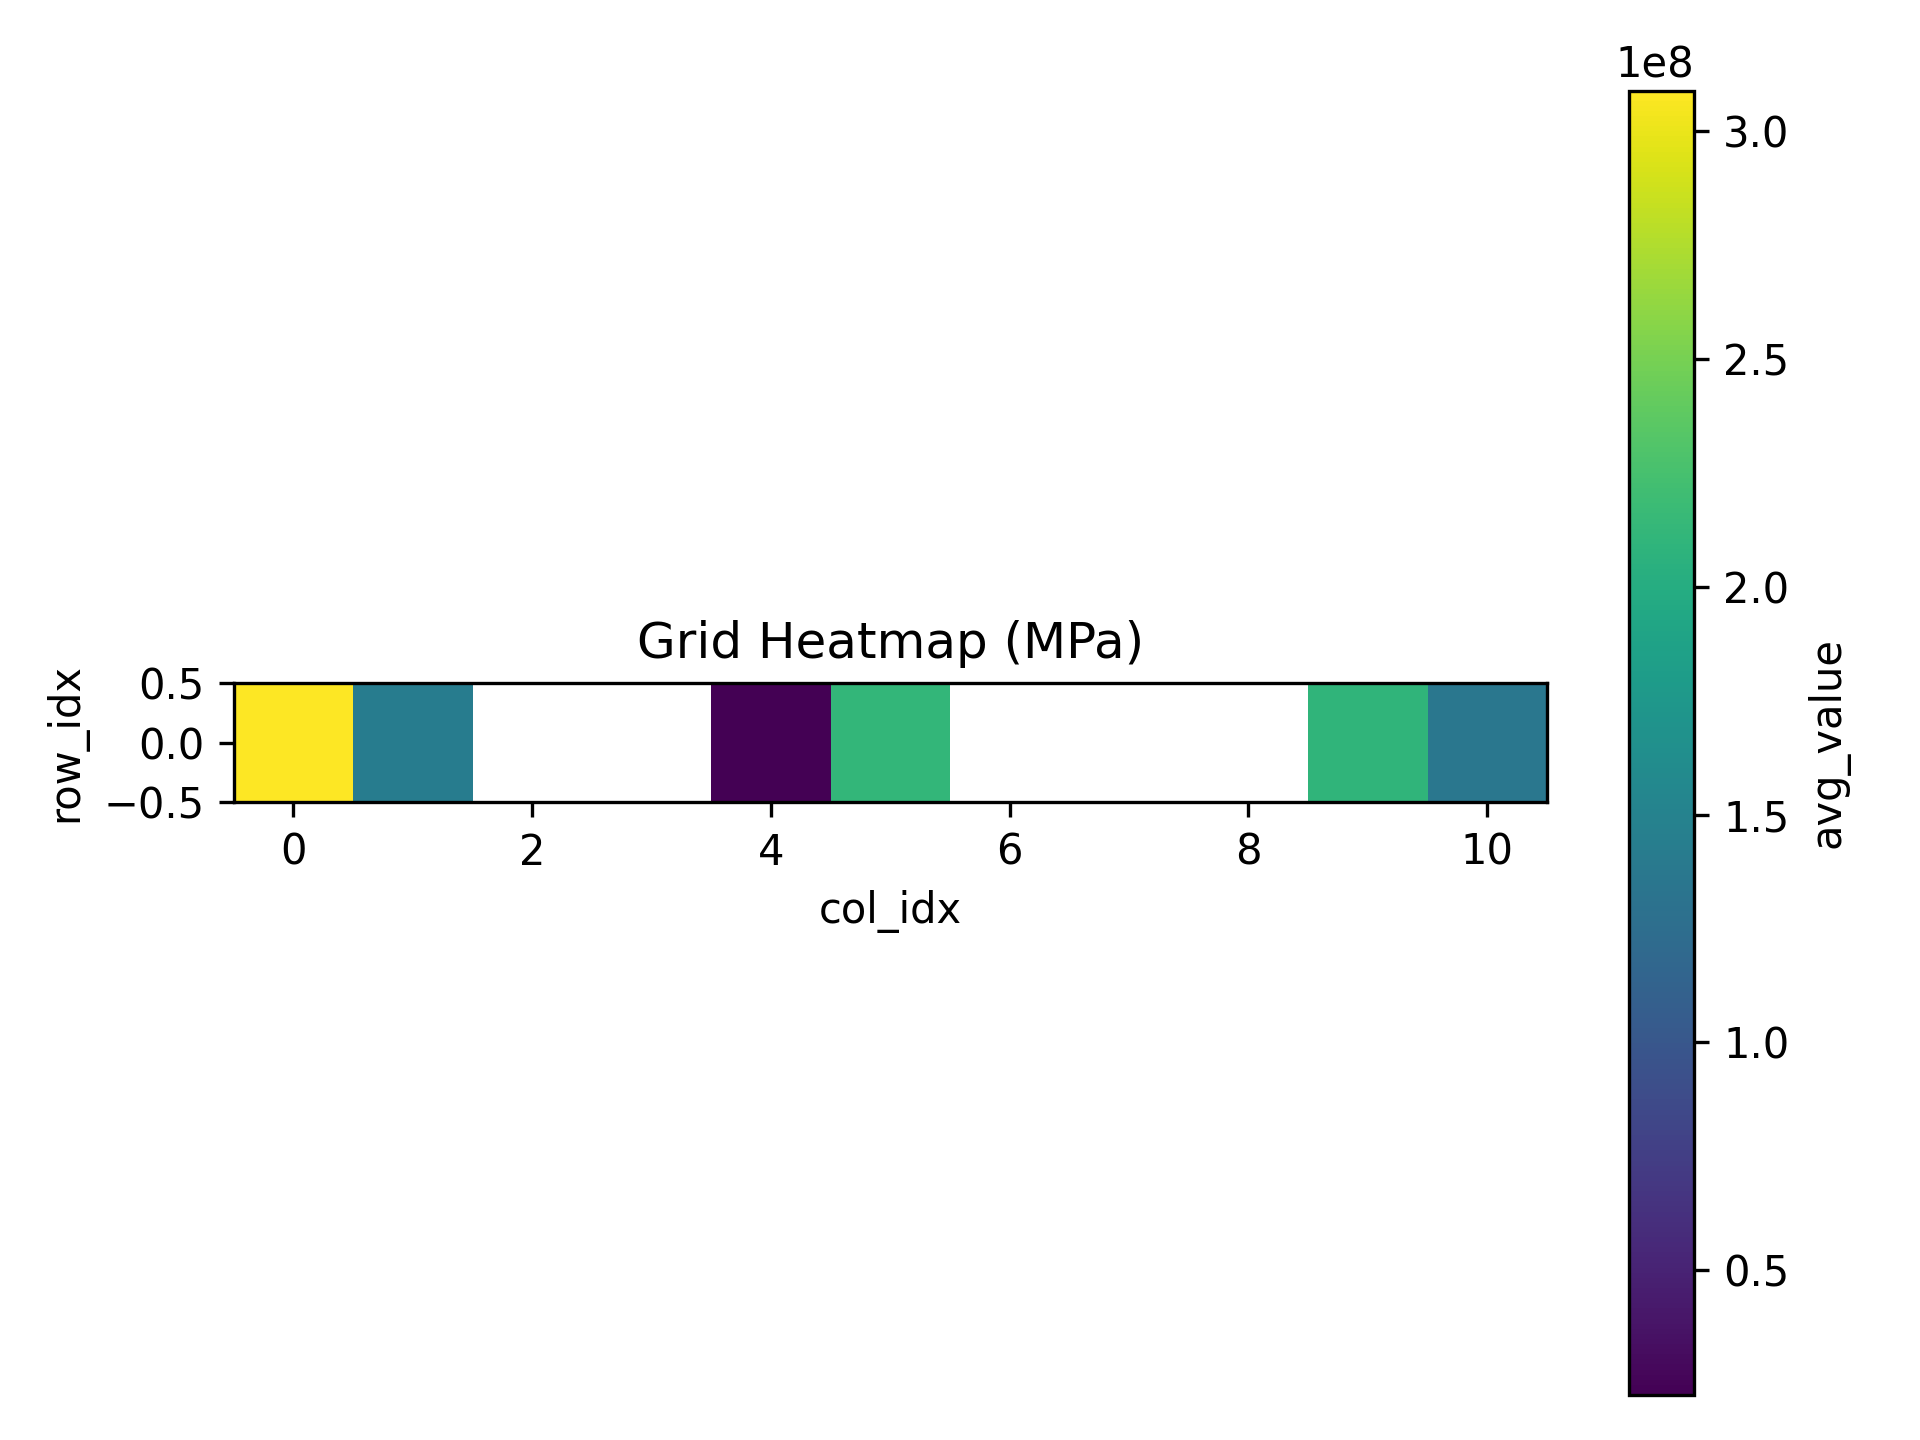
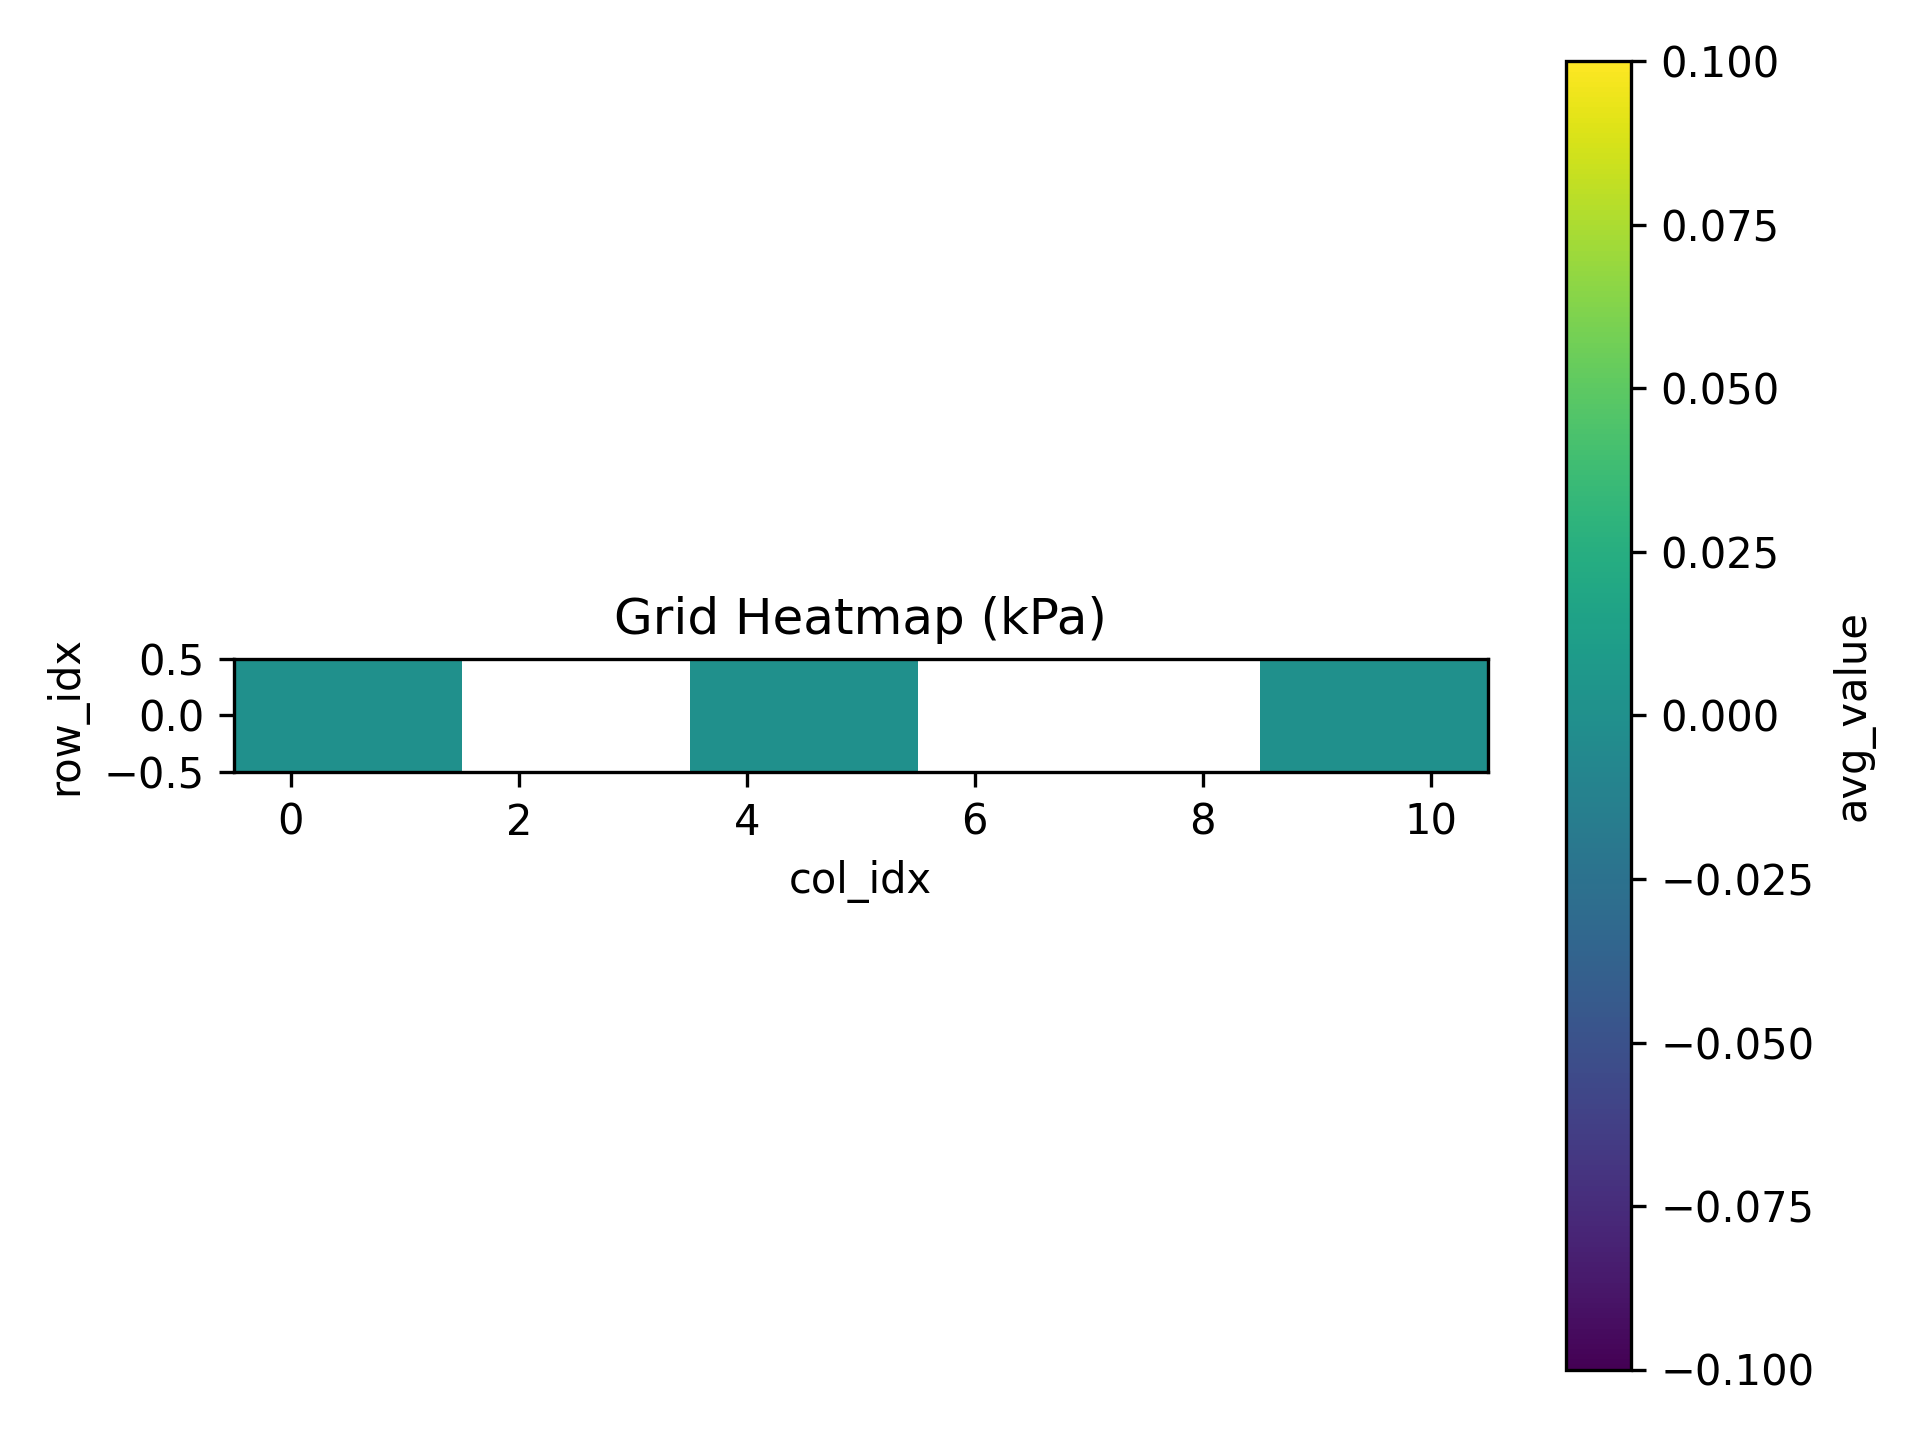
Add mixed profiles config and update modulus filtering
Added a new mixed profiles configuration for batch runs. Updated modulus mode in config.modulus_debug.yaml and config.plot_suite.yaml to filter values between 0.1 and 50000.0 kPa and exclude nonpositive values. Adjusted unit conversions and output files to use kPa instead of MPa. Improved _save_field in run_pygwy_job.py to ensure output directory exists and refactored fallback logic for saving fields.

Changed region(s): [[0.0312, 0.0312, 0.9688, 0.9688], [0.4062, 0.5938, 0.5, 0.6562]]

diff --git a/scripts/run_pygwy_job.py b/scripts/run_pygwy_job.py
@@ -202,52 +202,59 @@ def _debug_out_dir(manifest):
 
 def _save_field(path, field):
     """Save a DataField to a file via gwy file save."""
+    # Ensure output directory exists
+    out_dir = os.path.dirname(path)
+    if out_dir and not os.path.isdir(out_dir):
+        os.makedirs(out_dir)
+
+    # First try pygwy export
     try:
         import gwy  # type: ignore
     except Exception as exc:
-        sys.stderr.write("WARN: debug save skipped (cannot import gwy): %s\n" % exc)
+        sys.stderr.write("WARN: debug save skipped pygwy (cannot import gwy): %s\n" % exc)
+    else:
+        try:
+            container = None
+            if hasattr(gwy, "gwy_container_new"):
+                container = gwy.gwy_container_new()
+            elif hasattr(gwy, "Container"):
+                container = gwy.Container()
+            if container is None:
+                raise AttributeError("gwy container constructor not available")
+            container.set_object_by_name("/0/data", field)
+            try:
+                container.set_string_by_name("/0/data/title", os.path.basename(path))
+            except Exception:
+                pass
+            gwy.gwy_file_save(container, path)
+            return True
+        except Exception as exc:
+            sys.stderr.write("WARN: debug save failed for %s (pygwy): %s\n" % (path, exc))
+
+    # Fallback: save via Pillow/NumPy
+    try:
+        import numpy as np
+        from PIL import Image
+    except Exception as exc2:
+        sys.stderr.write("WARN: debug save fallback unavailable (Pillow/NumPy missing): %s\n" % exc2)
         return False
     try:
-        out_dir = os.path.dirname(path)
-        if out_dir and not os.path.isdir(out_dir):
-            os.makedirs(out_dir)
-        container = None
-        if hasattr(gwy, "gwy_container_new"):
-            container = gwy.gwy_container_new()
-        elif hasattr(gwy, "Container"):
-            container = gwy.Container()
-        if container is None:
-            raise AttributeError("gwy container constructor not available")
-        container.set_object_by_name("/0/data", field)
-        gwy.gwy_file_save(container, path)
+        nx = int(field.get_xres())
+        ny = int(field.get_yres())
+        data = field.get_data()
+        arr = np.array([float(x) for x in data], dtype=float).reshape((ny, nx))
+        vmin = float(np.nanmin(arr)) if arr.size else 0.0
+        vmax = float(np.nanmax(arr)) if arr.size else 1.0
+        if vmax == vmin:
+            vmax = vmin + 1.0
+        norm = (arr - vmin) / (vmax - vmin)
+        norm = np.clip(norm, 0.0, 1.0)
+        img = Image.fromarray(np.uint8(norm * 255.0), mode="L")
+        img.save(path)
         return True
-    except Exception as exc:
-        sys.stderr.write("WARN: debug save failed for %s (pygwy): %s\n" % (path, exc))
-        # Fallback: save via Pillow/NumPy
-        try:
-            import numpy as np
-            from PIL import Image
-        except Exception as exc2:
-            sys.stderr.write("WARN: debug save fallback unavailable (Pillow/NumPy missing): %s\n" % exc2)
-            return False
-        try:
-            nx = int(field.get_xres())
-            ny = int(field.get_yres())
-            data = field.get_data()
-            arr = np.array([float(x) for x in data], dtype=float).reshape((ny, nx))
-            vmin = float(np.nanmin(arr)) if arr.size else 0.0
-            vmax = float(np.nanmax(arr)) if arr.size else 1.0
-            if vmax == vmin:
-                vmax = vmin + 1.0
-            norm = (arr - vmin) / (vmax - vmin)
-            norm = np.clip(norm, 0.0, 1.0)
-            img = Image.fromarray(np.uint8(norm * 255.0), mode="L")
-            out_path = path
-            img.save(out_path)
-            return True
-        except Exception as exc3:
-            sys.stderr.write("WARN: debug save fallback (Pillow) failed for %s: %s\n" % (path, exc3))
-            return False
+    except Exception as exc3:
+        sys.stderr.write("WARN: debug save fallback (Pillow) failed for %s: %s\n" % (path, exc3))
+        return False
 
 
 def _mask_field_from_bool(field, mask):
